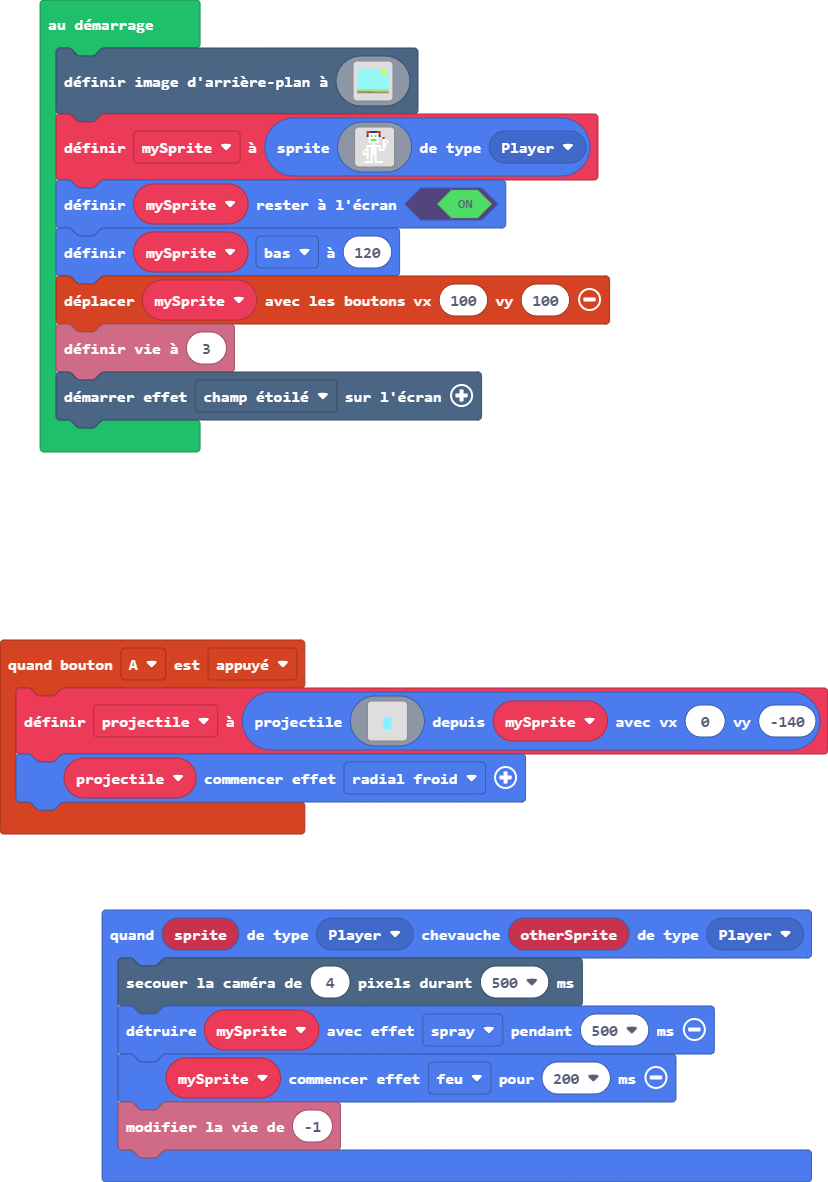
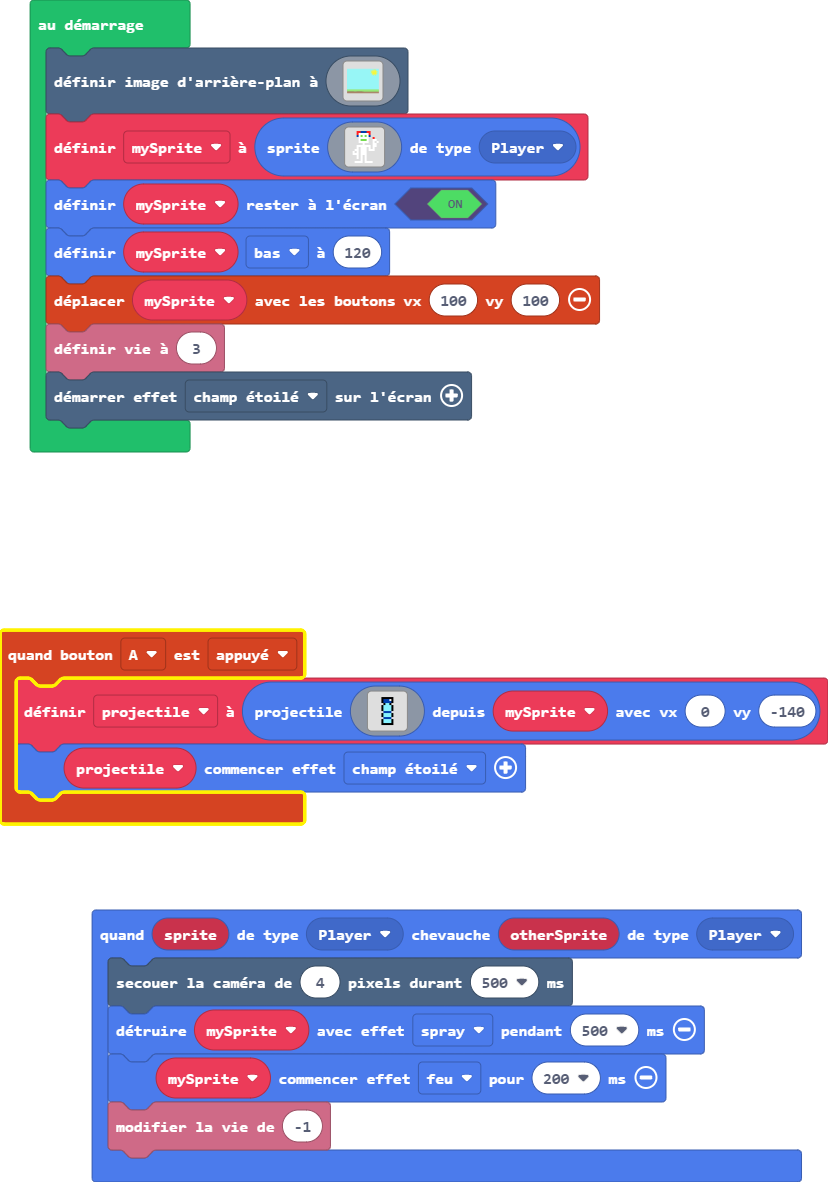
Mise à jour main.blocks, main.ts

diff --git a/main.ts b/main.ts
@@ -1,23 +1,23 @@
 controller.A.onEvent(ControllerButtonEvent.Pressed, function () {
     projectile = sprites.createProjectileFromSprite(img`
         . . . . . . . . . . . . . . . . 
-        . . . . . . . . . . . . . . . . 
-        . . . . . . . . . . . . . . . . 
-        . . . . . . . . . . . . . . . . 
-        . . . . . . . . . . . . . . . . 
-        . . . . . . . . . . . . . . . . 
-        . . . . . . 9 9 9 9 . . . . . . 
-        . . . . . . 9 9 9 9 . . . . . . 
-        . . . . . . 9 9 9 9 . . . . . . 
-        . . . . . . 9 9 9 9 . . . . . . 
-        . . . . . . 9 9 9 9 . . . . . . 
-        . . . . . . 9 9 9 9 . . . . . . 
-        . . . . . . . . . . . . . . . . 
-        . . . . . . . . . . . . . . . . 
-        . . . . . . . . . . . . . . . . 
+        . . . . . f f f f f f . . . . . 
+        . . . . . f 8 8 8 1 f . . . . . 
+        . . . . . f 8 8 8 8 f . . . . . 
+        . . . . . . f 9 9 f . . . . . . 
+        . . . . . f 9 9 9 9 f . . . . . 
+        . . . . . f 9 9 9 9 f . . . . . 
+        . . . . . f 9 9 9 9 f . . . . . 
+        . . . . . . 8 8 8 8 . . . . . . 
+        . . . . . f 9 9 9 9 f . . . . . 
+        . . . . . f 9 9 9 9 f . . . . . 
+        . . . . . . 8 8 8 8 . . . . . . 
+        . . . . . f 9 9 9 9 f . . . . . 
+        . . . . . f 9 9 9 9 f . . . . . 
+        . . . . . f f f f f f . . . . . 
         . . . . . . . . . . . . . . . . 
         `, mySprite, 0, -140)
-    projectile.startEffect(effects.coolRadial)
+    projectile.startEffect(effects.starField)
 })
 sprites.onOverlap(SpriteKind.Player, SpriteKind.Player, function (sprite, otherSprite) {
     scene.cameraShake(4, 500)
